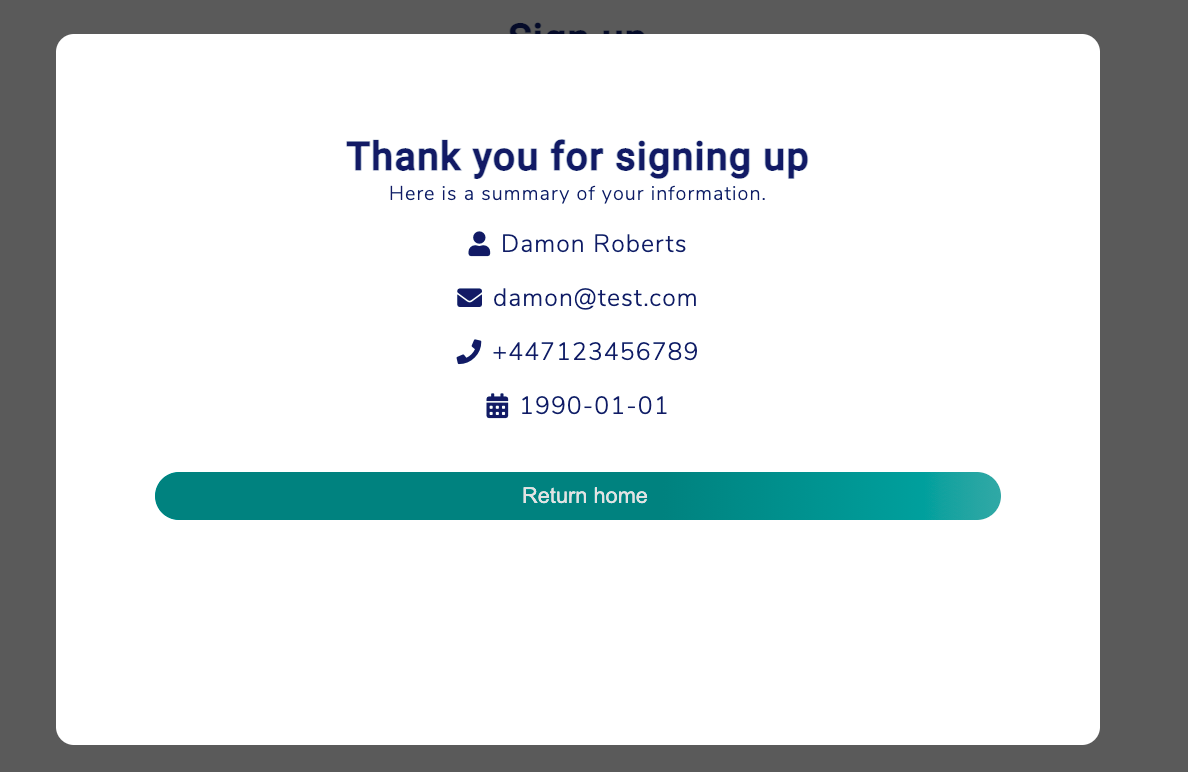
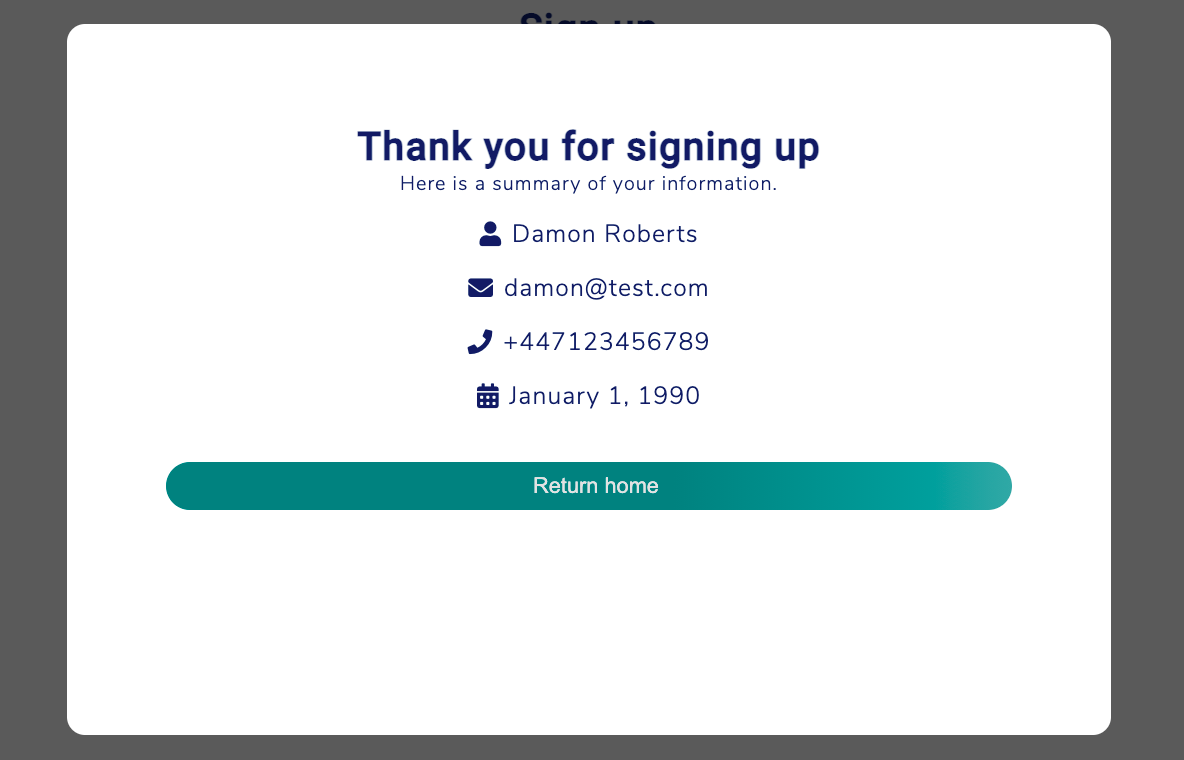
working

diff --git a/src/containers/page-container.js b/src/containers/page-container.js
@@ -3,6 +3,12 @@ import Form from "../components/form/form";
 import Modal from "../components/modal/modal";
 
 const PageContainer = () => {
+  const options = { 
+    month: "long", 
+    day: "numeric",
+    year: "numeric"
+  };
+
   const [showModal, setShowModal] = useState(false);
   const [data, setData] = useState({});
   
@@ -25,7 +31,7 @@ const PageContainer = () => {
         lastName = {data.lastName}
         email = {data.email}
         number = {data.number}
-        dob = {data.dob}
+        dob = {new Intl.DateTimeFormat("en-US", options).format(new Date(data.dob))}
         /> : null }
     </div>
   );
